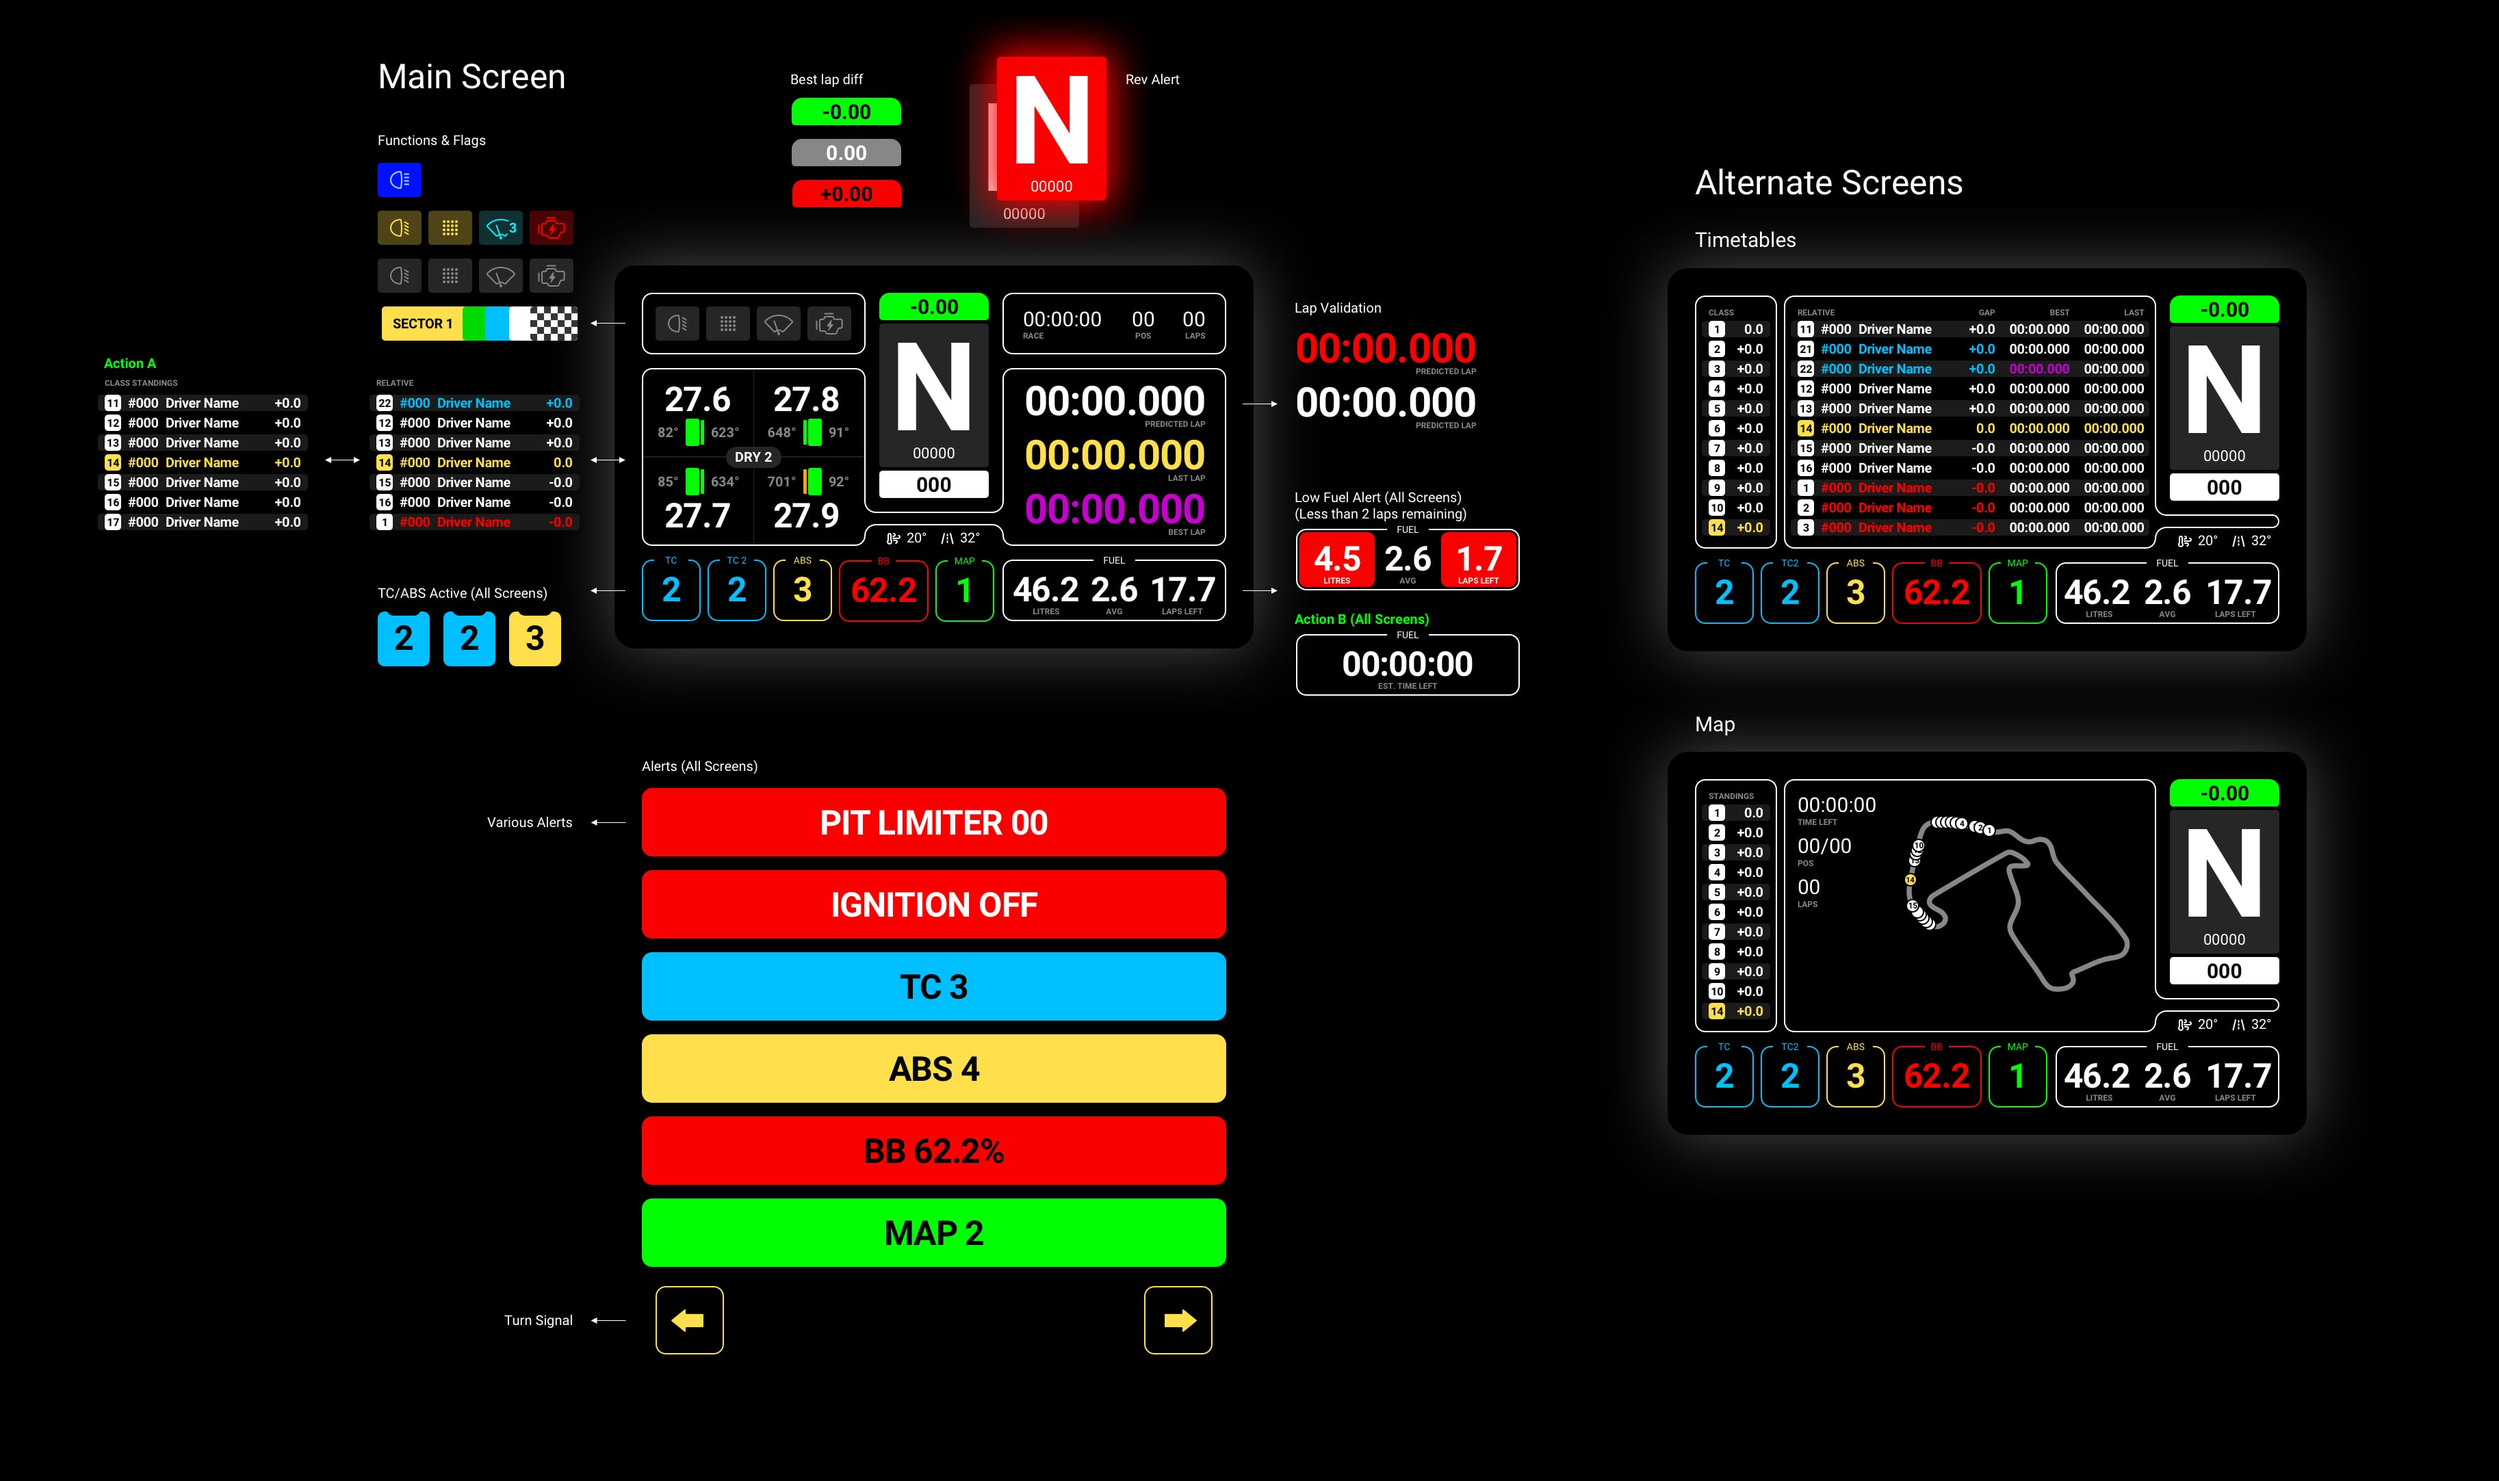
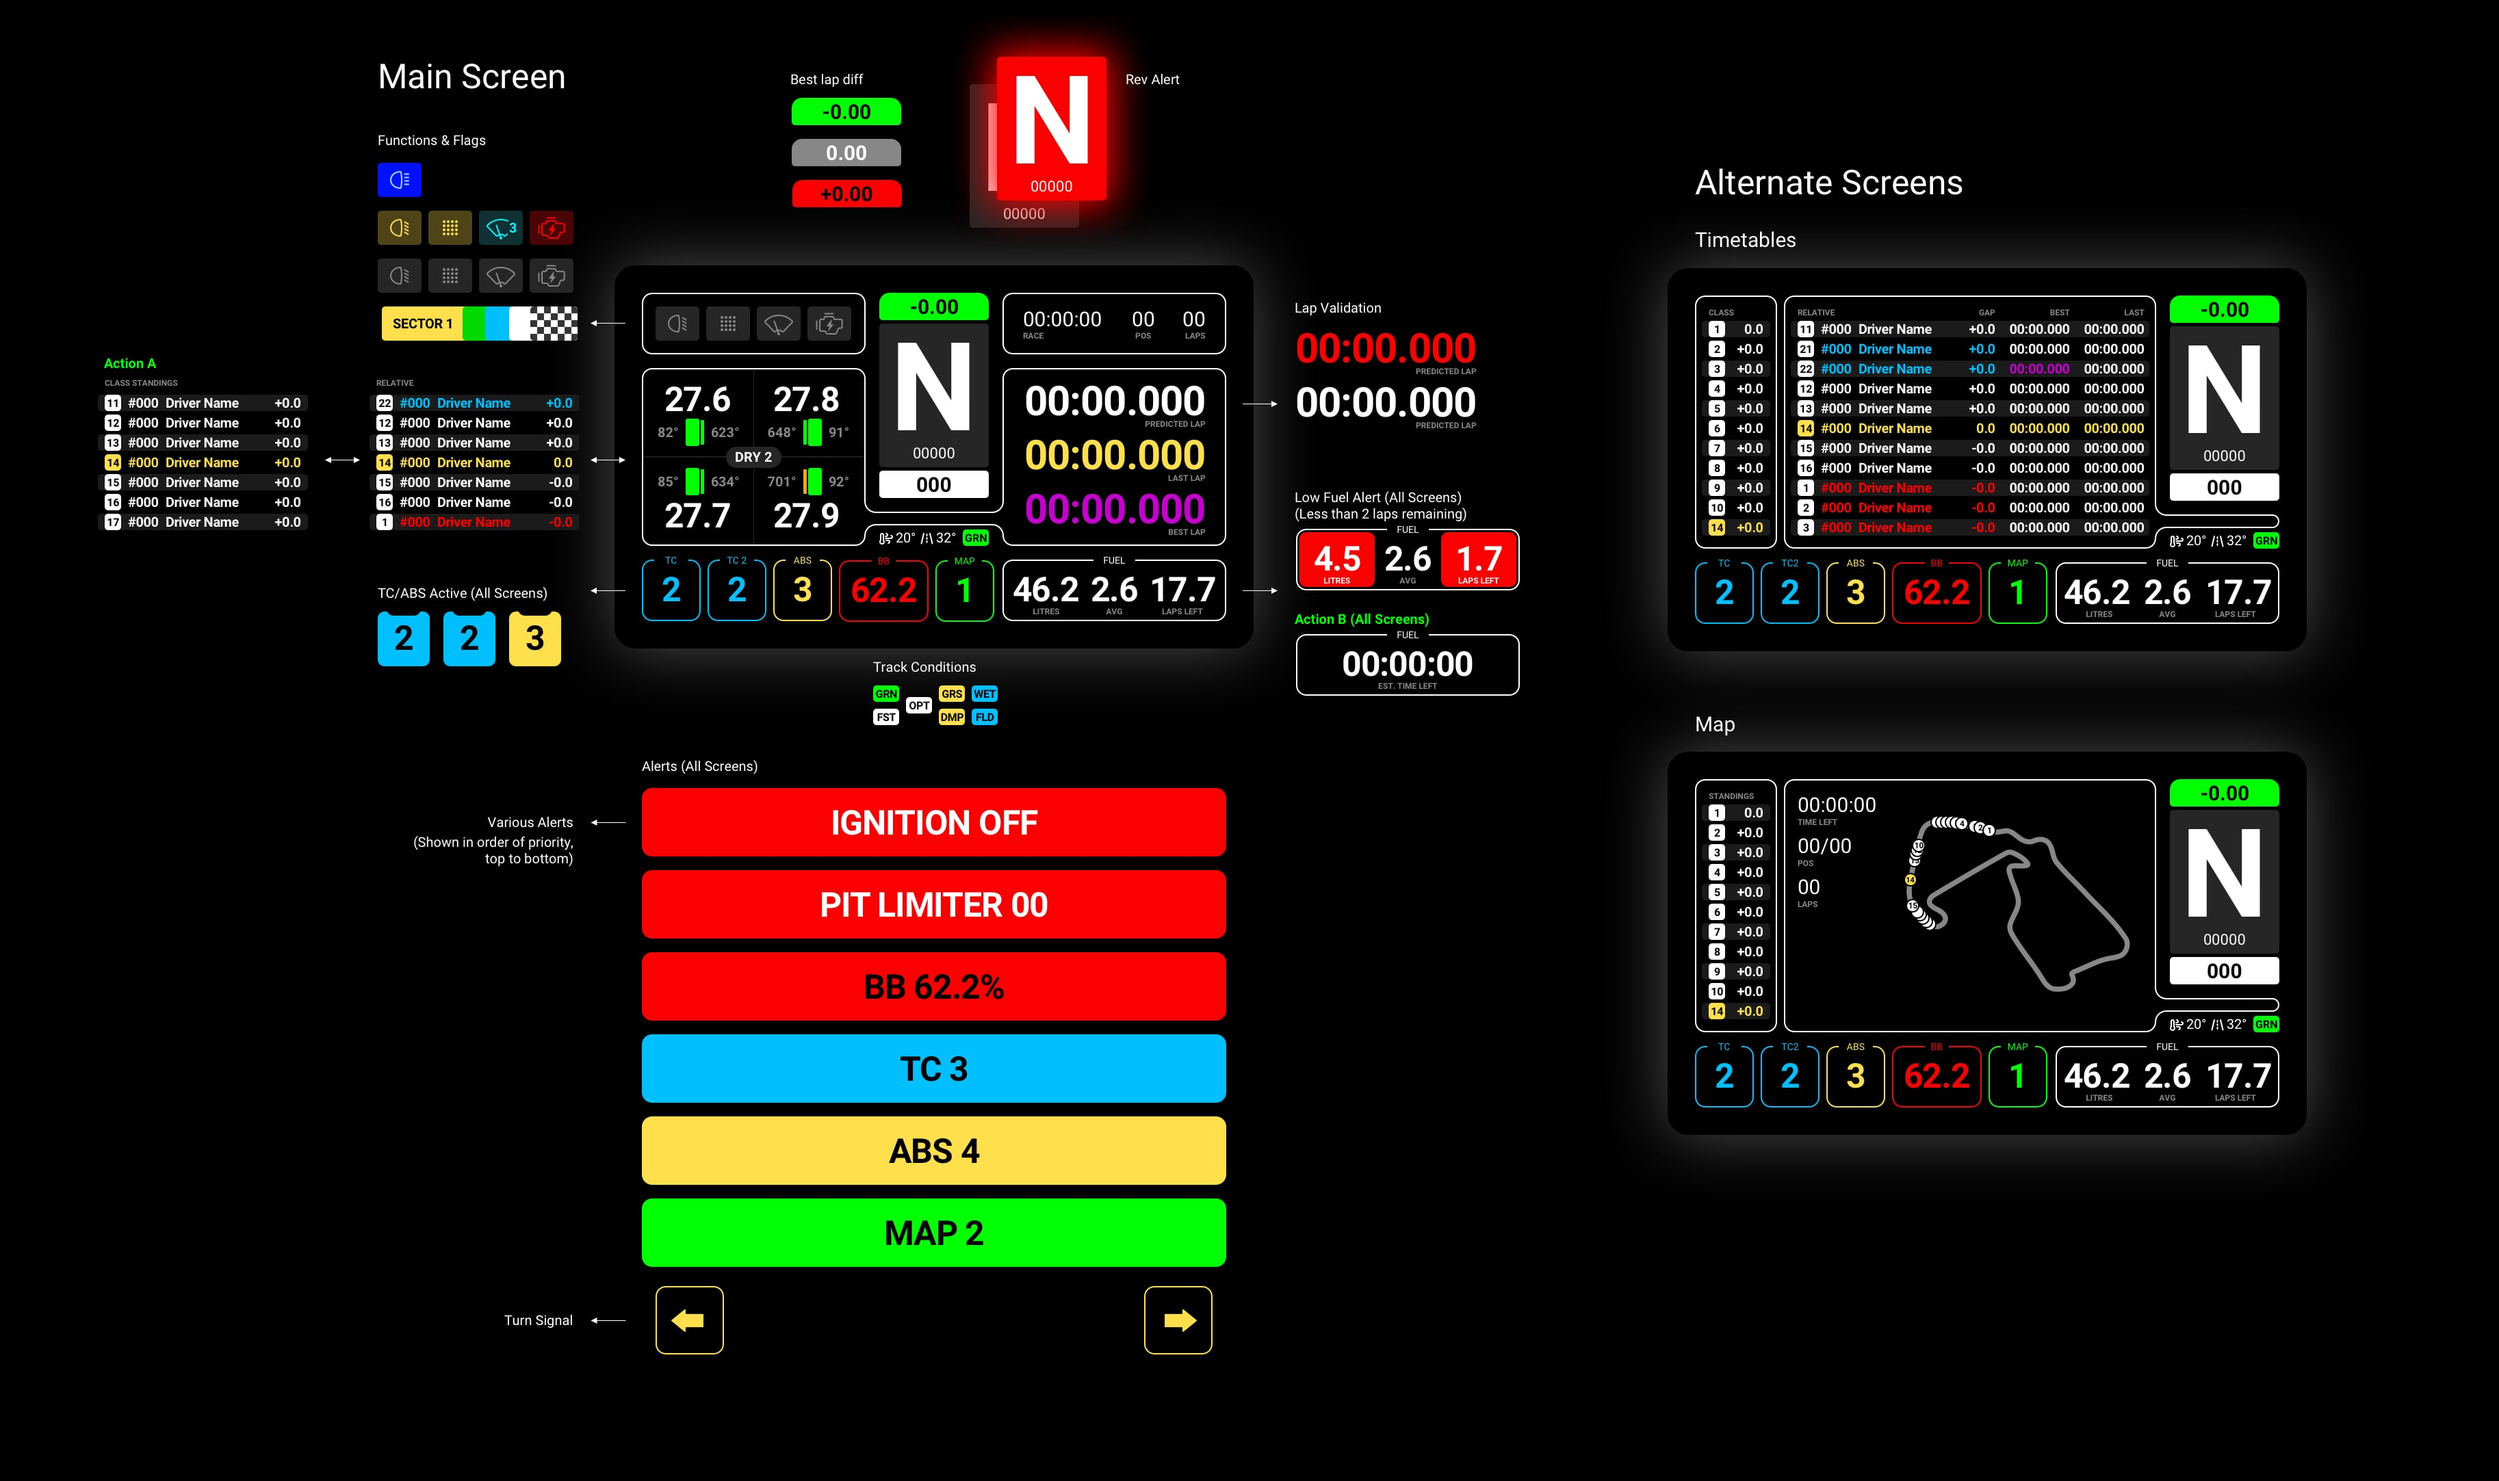
All Features

diff --git a/README.md b/README.md
@@ -24,6 +24,8 @@ This is a SimHub Dashboard, therefore **SimHub Dash** app is required to run it 
 ## Features
 If you were wondering why this is the best SimHub dashboard out there, wonder no more. Here's the complete feature set.
 
+🖥 **View the [Full Feature Set](features.md)**
+
 ### Primary Screen
 [![Primary Screen](images/Primary.jpg)](primary.md)
 

diff --git a/primary.md b/primary.md
@@ -25,6 +25,9 @@
 2. Gear
 3. RPM
 4. Speed
+5. Air Temp
+6. Track Temp
+7. Track Status
 
 ### Left Module 
 1. Tyre Pressure (FL, FR, RL, RR)

diff --git a/features.md b/features.md
@@ -1,0 +1,3 @@
+# Full Feature Set
+
+![Full Feature Set](images/AllFeatures.jpg)
